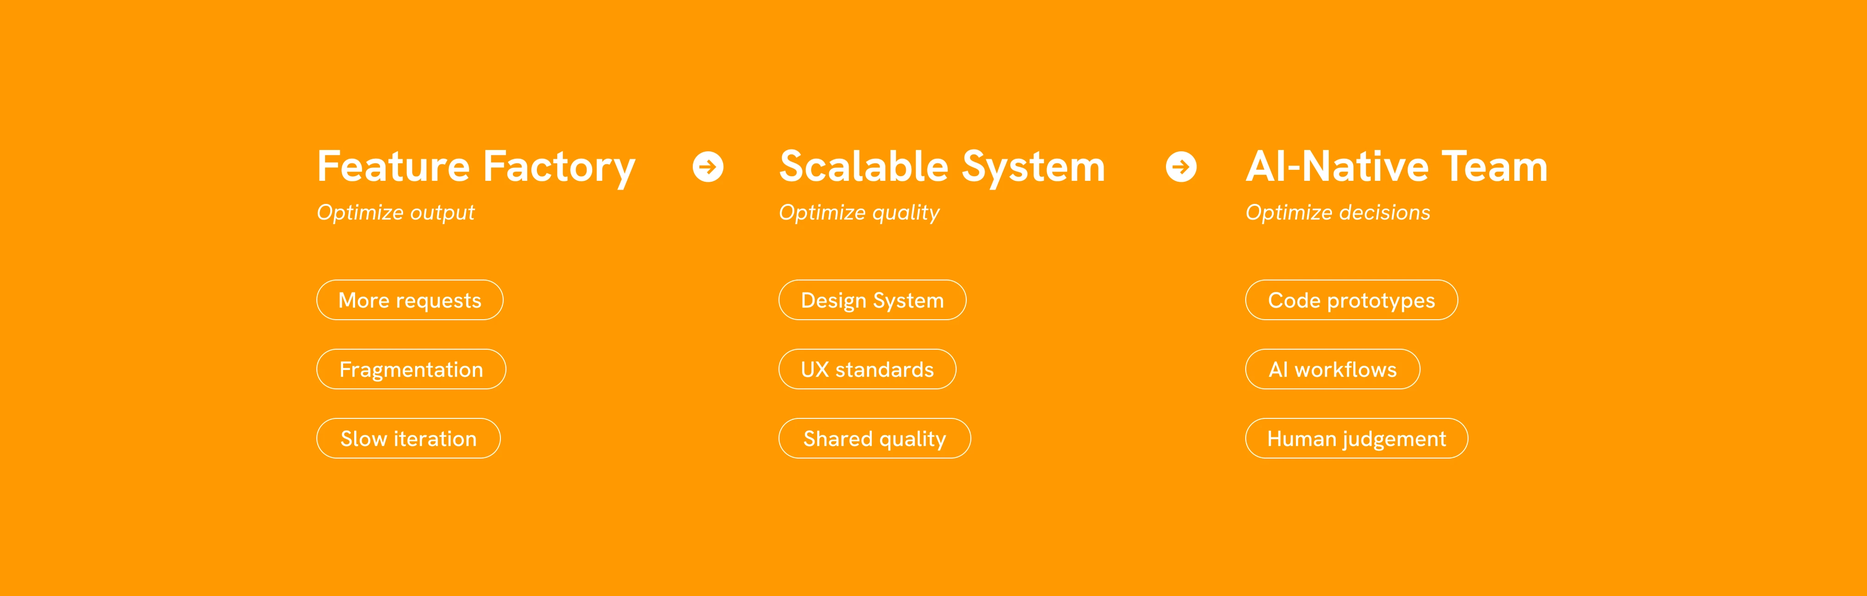
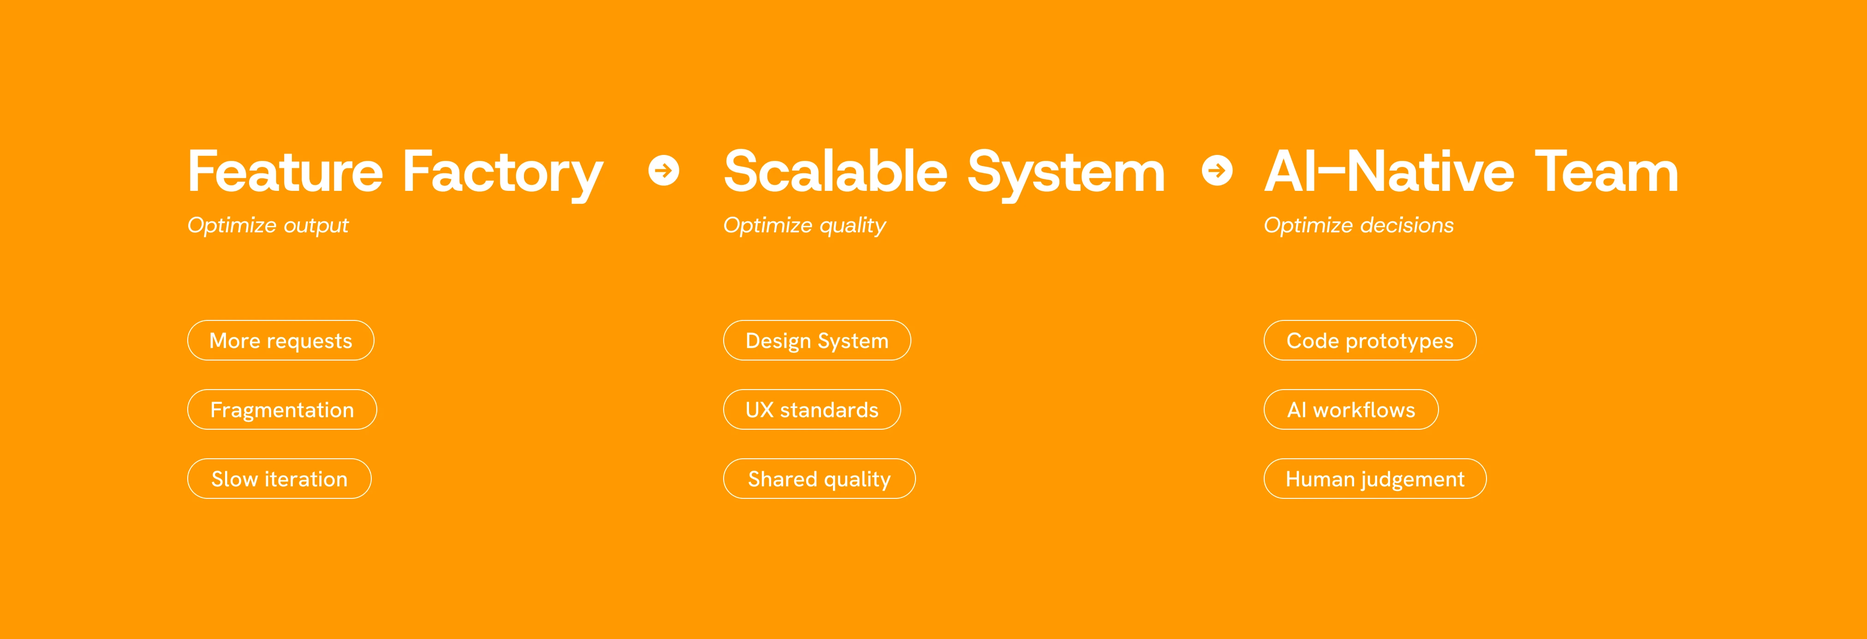
Update AI-Native eras diagram and Foureyes challenge images
Both new sources changed aspect ratio, so the declared width/height
attributes are updated to match and avoid layout shift on load.

The Foureyes challenge goes from 1368px to 2736px wide, since the
Foureyes images were still at 1x while the other case studies were
re-exported at 2x. Its alpha channel is dropped: the source carried a
2px semi-transparent top edge that would have bled the wrapper
background through as a hairline.

diff --git a/case-studies/foureyes/index.html b/case-studies/foureyes/index.html
@@ -36,7 +36,7 @@
   </div>
 </div>
 <div class="page" id="content">
-<div class="company-wordmark"><img src="/assets/img/logos/foureyes.svg" alt="Foureyes logo" width="60" height="40"></div><h1 class="cs-headline"><span data-en="Turning Behavioral Data into Trusted Sales Intelligence" data-es="Convirtiendo Datos de Comportamiento en Inteligencia de Ventas Confiable">Turning Behavioral Data into Trusted Sales Intelligence</span></h1><div class="role-meta"><div><b><span data-en="ROLE" data-es="PUESTO">ROLE</span></b> <span data-en="HEAD OF PRODUCT & DESIGN" data-es="DIRECTOR DE PRODUCTO Y DISEÑO">HEAD OF PRODUCT & DESIGN</span></div><div><b><span data-en="YEARS" data-es="AÑOS">YEARS</span></b> <span data-en="2015–2019" data-es="2015–2019">2015–2019</span></div></div><div class="hero-img hero-img-primary"><img src="/assets/img/foureyes/hero.webp" alt="Foureyes lead inbox" width="1400" height="898" loading="eager"></div><p class="cs-lede"><span data-en="Joining as the founding design and product leader before product-market fit, I helped transform an early B2B SaaS product into a scalable platform that fueled 200% YoY customer growth." data-es="Como líder fundador de diseño y producto antes de alcanzar ajuste producto-mercado, ayudé a transformar un producto SaaS B2B incipiente en una plataforma escalable que impulsó un crecimiento del 200% anual.">Joining as the founding design and product leader before product-market fit, I helped transform an early B2B SaaS product into a scalable platform that fueled 200% YoY customer growth.</span></p><div class="cs-section"><div class="cs-section-label"><span data-en="The challenge" data-es="El desafío">The challenge</span></div><p><span data-en="Foureyes had developed a breakthrough capability: connecting anonymous online shopping behavior to dealership CRM records, allowing sales teams to identify which prospects were actively shopping inventory before and after they visited their showroom. The challenge wasn’t simply building software, it was helping an industry built on instinct trust an entirely new way of working." data-es="Foureyes había desarrollado una capacidad revolucionaria: conectar el comportamiento de compra anónimo en línea con los registros de CRM de las agencias, permitiendo a los equipos de ventas identificar qué prospectos estaban comprando activamente en el inventario antes y después de visitar el showroom. El reto no era simplemente construir software, era ayudar a una industria basada en el instinto a confiar en una forma completamente nueva de trabajar.">Foureyes had developed a breakthrough capability: connecting anonymous online shopping behavior to dealership CRM records, allowing sales teams to identify which prospects were actively shopping inventory before and after they visited their showroom. The challenge wasn’t simply building software, it was helping an industry built on instinct trust an entirely new way of working.</span></p></div><div class="hero-img"><img src="/assets/img/foureyes/challenge-flow.webp" alt="Anonymous website visitor to recommended follow-up flow" width="1368" height="744" loading="lazy"></div><div class="cs-section"><div class="cs-section-label"><span data-en="My role as a leader" data-es="Mi rol como líder">My role as a leader</span></div><p><span data-en="Reporting directly to the CEO, I led product strategy, discovery, research, and design from the ground up. Through hundreds of customer interviews and dealership visits, I uncovered the insights that shaped the product roadmap, validated new opportunities, and established a customer-centered product organization. As the company grew, I built a multidisciplinary team of 18 across product, design, and research while partnering closely with engineering, sales, and executive leadership to accelerate learning and drive adoption." data-es="Reportando directamente al CEO, lideré la estrategia de producto, el descubrimiento, la investigación y el diseño desde cero. A través de cientos de entrevistas con clientes y visitas a agencias, descubrí los hallazgos que dieron forma al roadmap de producto, validé nuevas oportunidades y establecí una organización de producto centrada en el cliente. A medida que la empresa creció, construí un equipo multidisciplinario de 18 personas entre producto, diseño e investigación, colaborando de cerca con ingeniería, ventas y liderazgo ejecutivo para acelerar el aprendizaje e impulsar la adopción.">Reporting directly to the CEO, I led product strategy, discovery, research, and design from the ground up. Through hundreds of customer interviews and dealership visits, I uncovered the insights that shaped the product roadmap, validated new opportunities, and established a customer-centered product organization. As the company grew, I built a multidisciplinary team of 18 across product, design, and research while partnering closely with engineering, sales, and executive leadership to accelerate learning and drive adoption.</span></p></div><div class="cs-section-label"><span data-en="Strategic initiatives" data-es="Iniciativas estratégicas">Strategic initiatives</span></div><div class="cs-section"><div class="cs-subhead"><span data-en="Defined Product Strategy Through Customer Discovery" data-es="Definí la estrategia de producto a través del descubrimiento de clientes">Defined Product Strategy Through Customer Discovery</span></div><p><span data-en="Established research, experimentation, and pilot practices that uncovered the highest-value customer problems and shaped the product roadmap. Research revealed two distinct user needs: experienced salespeople who wanted a clear signal and newer reps who needed more context to build confidence. I translated these insights into Sales Assistant, a workflow that helped teams prioritize opportunities, understand intent, and take action." data-es="Establecí prácticas de investigación, experimentación y pilotos que revelaron los problemas de mayor valor para los clientes y dieron forma al roadmap de producto. La investigación reveló dos necesidades distintas de usuario: vendedores experimentados que querían una señal clara, y representantes nuevos que necesitaban más contexto para generar confianza. Traduje estos hallazgos en Sales Assistant, un flujo de trabajo que ayudó a los equipos a priorizar oportunidades, entender la intención y tomar acción.">Established research, experimentation, and pilot practices that uncovered the highest-value customer problems and shaped the product roadmap. Research revealed two distinct user needs: experienced salespeople who wanted a clear signal and newer reps who needed more context to build confidence. I translated these insights into Sales Assistant, a workflow that helped teams prioritize opportunities, understand intent, and take action.</span></p></div><div class="hero-img" style="background:var(--cream);"><img src="/assets/img/foureyes/web-email.webp" alt="Foureyes web and email" width="1368" height="876" loading="lazy"></div><div class="cs-section"><div class="cs-subhead"><span data-en="Expanded the Platform Through Intelligent Recommendations" data-es="Expandí la plataforma a través de recomendaciones inteligentes">Expanded the Platform Through Intelligent Recommendations</span></div><p><span data-en="Recognized that behavioral intelligence was only valuable when it helped salespeople take action. I led the evolution from passive analytics into proactive recommendations, using behavioral signals to identify the highest-impact next steps and guide customers through the sales funnel." data-es="Reconocí que la inteligencia de comportamiento solo era valiosa cuando ayudaba a los vendedores a actuar. Lideré la evolución de un análisis pasivo hacia recomendaciones proactivas, usando señales de comportamiento para identificar los siguientes pasos de mayor impacto y guiar a los clientes a través del embudo de ventas.">Recognized that behavioral intelligence was only valuable when it helped salespeople take action. I led the evolution from passive analytics into proactive recommendations, using behavioral signals to identify the highest-impact next steps and guide customers through the sales funnel.</span></p></div><div class="cs-section"><p><span data-en="This work established my early principles for intelligent product design: making AI-driven recommendations transparent, explainable, and actionable so users could build confidence and stay in control." data-es="Este trabajo estableció mis principios tempranos para el diseño de producto inteligente: hacer que las recomendaciones basadas en IA fueran transparentes, explicables y accionables para que los usuarios pudieran generar confianza y mantener el control.">This work established my early principles for intelligent product design: making AI-driven recommendations transparent, explainable, and actionable so users could build confidence and stay in control.</span></p></div><div class="hero-img"><img src="/assets/img/foureyes/email.webp" alt="Foureyes email" width="1368" height="1456" loading="lazy"></div><div class="cs-section"><div class="cs-subhead"><span data-en="Built a Differentiated Brand Around Customer Advocacy" data-es="Construí una marca diferenciada en torno a la defensa del cliente">Built a Differentiated Brand Around Customer Advocacy</span></div><p><span data-en="Used customer insight to reposition Foureyes from a technology provider into an advocate for salespeople. The Data Fatigued persona created a shared language across product, marketing, and sales, helping the company stand apart in a crowded analytics market and directly informing products designed to empower sales teams." data-es="Usé los hallazgos de clientes para reposicionar a Foureyes de un proveedor de tecnología a un aliado de los vendedores. La persona El Fatigado de Datos creó un lenguaje compartido entre producto, marketing y ventas, ayudando a la empresa a diferenciarse en un mercado de analítica saturado e informando directamente productos diseñados para empoderar a los equipos de ventas.">Used customer insight to reposition Foureyes from a technology provider into an advocate for salespeople. The Data Fatigued persona created a shared language across product, marketing, and sales, helping the company stand apart in a crowded analytics market and directly informing products designed to empower sales teams.</span></p></div><div class="hero-img"><img src="/assets/img/foureyes/brand-collage.webp" alt="Foureyes brand collage" width="1368" height="760" loading="lazy"></div><div class="hero-img"><img src="/assets/img/foureyes/design-system.webp" alt="Foureyes design system" width="1368" height="776" loading="lazy"></div><div class="leadership-block"><div class="cs-section-label"><span data-en="Outcomes" data-es="Resultados">Outcomes</span></div><div class="stat-row" style="margin-top:0.75rem;"><div class="stat"><div class="stat-num">200%</div><div class="stat-label"><span data-en="YoY Customer Growth" data-es="de crecimiento anual de clientes">YoY Customer Growth</span></div></div><div class="stat"><div class="stat-num">70%</div><div class="stat-label"><span data-en="Increase in Platform Engagement" data-es="de aumento en engagement de la plataforma">Increase in Platform Engagement</span></div></div><div class="stat"><div class="stat-num">10%</div><div class="stat-label"><span data-en="Increase in Qualified-Lead Purchase Rate" data-es="de aumento en tasa de compra de leads calificados">Increase in Qualified-Lead Purchase Rate</span></div></div><div class="stat"><div class="stat-num"><5%</div><div class="stat-label"><span data-en="Annual Team Churn" data-es="de churn anual del equipo">Annual Team Churn</span></div></div><div class="stat"><div class="stat-num">2</div><div class="stat-label"><span data-en="Industry Product Innovation Awards" data-es="premios de innovación de producto de la industria">Industry Product Innovation Awards</span></div></div></div></div><a class="case-study-cta" style="margin-top:3.75rem;" href="/case-studies/ai-native-practice/"><span data-en="Next Case Study" data-es="Siguiente Caso de Estudio">Next Case Study</span> <svg viewBox="0 0 24 24" fill="none" stroke="currentColor" stroke-width="2.2" stroke-linecap="round" stroke-linejoin="round" aria-hidden="true"><line x1="4" y1="12" x2="20" y2="12"/><polyline points="13 5 20 12 13 19"/></svg></a>
+<div class="company-wordmark"><img src="/assets/img/logos/foureyes.svg" alt="Foureyes logo" width="60" height="40"></div><h1 class="cs-headline"><span data-en="Turning Behavioral Data into Trusted Sales Intelligence" data-es="Convirtiendo Datos de Comportamiento en Inteligencia de Ventas Confiable">Turning Behavioral Data into Trusted Sales Intelligence</span></h1><div class="role-meta"><div><b><span data-en="ROLE" data-es="PUESTO">ROLE</span></b> <span data-en="HEAD OF PRODUCT & DESIGN" data-es="DIRECTOR DE PRODUCTO Y DISEÑO">HEAD OF PRODUCT & DESIGN</span></div><div><b><span data-en="YEARS" data-es="AÑOS">YEARS</span></b> <span data-en="2015–2019" data-es="2015–2019">2015–2019</span></div></div><div class="hero-img hero-img-primary"><img src="/assets/img/foureyes/hero.webp" alt="Foureyes lead inbox" width="1400" height="898" loading="eager"></div><p class="cs-lede"><span data-en="Joining as the founding design and product leader before product-market fit, I helped transform an early B2B SaaS product into a scalable platform that fueled 200% YoY customer growth." data-es="Como líder fundador de diseño y producto antes de alcanzar ajuste producto-mercado, ayudé a transformar un producto SaaS B2B incipiente en una plataforma escalable que impulsó un crecimiento del 200% anual.">Joining as the founding design and product leader before product-market fit, I helped transform an early B2B SaaS product into a scalable platform that fueled 200% YoY customer growth.</span></p><div class="cs-section"><div class="cs-section-label"><span data-en="The challenge" data-es="El desafío">The challenge</span></div><p><span data-en="Foureyes had developed a breakthrough capability: connecting anonymous online shopping behavior to dealership CRM records, allowing sales teams to identify which prospects were actively shopping inventory before and after they visited their showroom. The challenge wasn’t simply building software, it was helping an industry built on instinct trust an entirely new way of working." data-es="Foureyes había desarrollado una capacidad revolucionaria: conectar el comportamiento de compra anónimo en línea con los registros de CRM de las agencias, permitiendo a los equipos de ventas identificar qué prospectos estaban comprando activamente en el inventario antes y después de visitar el showroom. El reto no era simplemente construir software, era ayudar a una industria basada en el instinto a confiar en una forma completamente nueva de trabajar.">Foureyes had developed a breakthrough capability: connecting anonymous online shopping behavior to dealership CRM records, allowing sales teams to identify which prospects were actively shopping inventory before and after they visited their showroom. The challenge wasn’t simply building software, it was helping an industry built on instinct trust an entirely new way of working.</span></p></div><div class="hero-img"><img src="/assets/img/foureyes/challenge-flow.webp" alt="Anonymous website visitor to recommended follow-up flow" width="1368" height="718" loading="lazy"></div><div class="cs-section"><div class="cs-section-label"><span data-en="My role as a leader" data-es="Mi rol como líder">My role as a leader</span></div><p><span data-en="Reporting directly to the CEO, I led product strategy, discovery, research, and design from the ground up. Through hundreds of customer interviews and dealership visits, I uncovered the insights that shaped the product roadmap, validated new opportunities, and established a customer-centered product organization. As the company grew, I built a multidisciplinary team of 18 across product, design, and research while partnering closely with engineering, sales, and executive leadership to accelerate learning and drive adoption." data-es="Reportando directamente al CEO, lideré la estrategia de producto, el descubrimiento, la investigación y el diseño desde cero. A través de cientos de entrevistas con clientes y visitas a agencias, descubrí los hallazgos que dieron forma al roadmap de producto, validé nuevas oportunidades y establecí una organización de producto centrada en el cliente. A medida que la empresa creció, construí un equipo multidisciplinario de 18 personas entre producto, diseño e investigación, colaborando de cerca con ingeniería, ventas y liderazgo ejecutivo para acelerar el aprendizaje e impulsar la adopción.">Reporting directly to the CEO, I led product strategy, discovery, research, and design from the ground up. Through hundreds of customer interviews and dealership visits, I uncovered the insights that shaped the product roadmap, validated new opportunities, and established a customer-centered product organization. As the company grew, I built a multidisciplinary team of 18 across product, design, and research while partnering closely with engineering, sales, and executive leadership to accelerate learning and drive adoption.</span></p></div><div class="cs-section-label"><span data-en="Strategic initiatives" data-es="Iniciativas estratégicas">Strategic initiatives</span></div><div class="cs-section"><div class="cs-subhead"><span data-en="Defined Product Strategy Through Customer Discovery" data-es="Definí la estrategia de producto a través del descubrimiento de clientes">Defined Product Strategy Through Customer Discovery</span></div><p><span data-en="Established research, experimentation, and pilot practices that uncovered the highest-value customer problems and shaped the product roadmap. Research revealed two distinct user needs: experienced salespeople who wanted a clear signal and newer reps who needed more context to build confidence. I translated these insights into Sales Assistant, a workflow that helped teams prioritize opportunities, understand intent, and take action." data-es="Establecí prácticas de investigación, experimentación y pilotos que revelaron los problemas de mayor valor para los clientes y dieron forma al roadmap de producto. La investigación reveló dos necesidades distintas de usuario: vendedores experimentados que querían una señal clara, y representantes nuevos que necesitaban más contexto para generar confianza. Traduje estos hallazgos en Sales Assistant, un flujo de trabajo que ayudó a los equipos a priorizar oportunidades, entender la intención y tomar acción.">Established research, experimentation, and pilot practices that uncovered the highest-value customer problems and shaped the product roadmap. Research revealed two distinct user needs: experienced salespeople who wanted a clear signal and newer reps who needed more context to build confidence. I translated these insights into Sales Assistant, a workflow that helped teams prioritize opportunities, understand intent, and take action.</span></p></div><div class="hero-img" style="background:var(--cream);"><img src="/assets/img/foureyes/web-email.webp" alt="Foureyes web and email" width="1368" height="876" loading="lazy"></div><div class="cs-section"><div class="cs-subhead"><span data-en="Expanded the Platform Through Intelligent Recommendations" data-es="Expandí la plataforma a través de recomendaciones inteligentes">Expanded the Platform Through Intelligent Recommendations</span></div><p><span data-en="Recognized that behavioral intelligence was only valuable when it helped salespeople take action. I led the evolution from passive analytics into proactive recommendations, using behavioral signals to identify the highest-impact next steps and guide customers through the sales funnel." data-es="Reconocí que la inteligencia de comportamiento solo era valiosa cuando ayudaba a los vendedores a actuar. Lideré la evolución de un análisis pasivo hacia recomendaciones proactivas, usando señales de comportamiento para identificar los siguientes pasos de mayor impacto y guiar a los clientes a través del embudo de ventas.">Recognized that behavioral intelligence was only valuable when it helped salespeople take action. I led the evolution from passive analytics into proactive recommendations, using behavioral signals to identify the highest-impact next steps and guide customers through the sales funnel.</span></p></div><div class="cs-section"><p><span data-en="This work established my early principles for intelligent product design: making AI-driven recommendations transparent, explainable, and actionable so users could build confidence and stay in control." data-es="Este trabajo estableció mis principios tempranos para el diseño de producto inteligente: hacer que las recomendaciones basadas en IA fueran transparentes, explicables y accionables para que los usuarios pudieran generar confianza y mantener el control.">This work established my early principles for intelligent product design: making AI-driven recommendations transparent, explainable, and actionable so users could build confidence and stay in control.</span></p></div><div class="hero-img"><img src="/assets/img/foureyes/email.webp" alt="Foureyes email" width="1368" height="1456" loading="lazy"></div><div class="cs-section"><div class="cs-subhead"><span data-en="Built a Differentiated Brand Around Customer Advocacy" data-es="Construí una marca diferenciada en torno a la defensa del cliente">Built a Differentiated Brand Around Customer Advocacy</span></div><p><span data-en="Used customer insight to reposition Foureyes from a technology provider into an advocate for salespeople. The Data Fatigued persona created a shared language across product, marketing, and sales, helping the company stand apart in a crowded analytics market and directly informing products designed to empower sales teams." data-es="Usé los hallazgos de clientes para reposicionar a Foureyes de un proveedor de tecnología a un aliado de los vendedores. La persona El Fatigado de Datos creó un lenguaje compartido entre producto, marketing y ventas, ayudando a la empresa a diferenciarse en un mercado de analítica saturado e informando directamente productos diseñados para empoderar a los equipos de ventas.">Used customer insight to reposition Foureyes from a technology provider into an advocate for salespeople. The Data Fatigued persona created a shared language across product, marketing, and sales, helping the company stand apart in a crowded analytics market and directly informing products designed to empower sales teams.</span></p></div><div class="hero-img"><img src="/assets/img/foureyes/brand-collage.webp" alt="Foureyes brand collage" width="1368" height="760" loading="lazy"></div><div class="hero-img"><img src="/assets/img/foureyes/design-system.webp" alt="Foureyes design system" width="1368" height="776" loading="lazy"></div><div class="leadership-block"><div class="cs-section-label"><span data-en="Outcomes" data-es="Resultados">Outcomes</span></div><div class="stat-row" style="margin-top:0.75rem;"><div class="stat"><div class="stat-num">200%</div><div class="stat-label"><span data-en="YoY Customer Growth" data-es="de crecimiento anual de clientes">YoY Customer Growth</span></div></div><div class="stat"><div class="stat-num">70%</div><div class="stat-label"><span data-en="Increase in Platform Engagement" data-es="de aumento en engagement de la plataforma">Increase in Platform Engagement</span></div></div><div class="stat"><div class="stat-num">10%</div><div class="stat-label"><span data-en="Increase in Qualified-Lead Purchase Rate" data-es="de aumento en tasa de compra de leads calificados">Increase in Qualified-Lead Purchase Rate</span></div></div><div class="stat"><div class="stat-num"><5%</div><div class="stat-label"><span data-en="Annual Team Churn" data-es="de churn anual del equipo">Annual Team Churn</span></div></div><div class="stat"><div class="stat-num">2</div><div class="stat-label"><span data-en="Industry Product Innovation Awards" data-es="premios de innovación de producto de la industria">Industry Product Innovation Awards</span></div></div></div></div><a class="case-study-cta" style="margin-top:3.75rem;" href="/case-studies/ai-native-practice/"><span data-en="Next Case Study" data-es="Siguiente Caso de Estudio">Next Case Study</span> <svg viewBox="0 0 24 24" fill="none" stroke="currentColor" stroke-width="2.2" stroke-linecap="round" stroke-linejoin="round" aria-hidden="true"><line x1="4" y1="12" x2="20" y2="12"/><polyline points="13 5 20 12 13 19"/></svg></a>
 </div>
 <div id="siteFooter">
   <div class="footer-block">

diff --git a/case-studies/ai-native-practice/index.html b/case-studies/ai-native-practice/index.html
@@ -46,7 +46,7 @@
 <p class="cs-lede"><span data-en="I rebuilt the design operating model to increase leverage, using AI to accelerate prototyping, automate research workflows, and raise the quality bar while shipping faster." data-es="Reconstruí el modelo operativo de diseño para aumentar el apalancamiento, usando IA para acelerar el prototipado, automatizar los flujos de investigación y elevar el estándar de calidad mientras entregábamos más rápido.">I rebuilt the design operating model to increase leverage, using AI to accelerate prototyping, automate research workflows, and raise the quality bar while shipping faster.</span></p>
 
 <div class="cs-section"><div class="cs-section-label"><span data-en="The challenge" data-es="El desafío">The challenge</span></div><p><span data-en="Stori’s design team supported a multi-product financial platform serving millions of customers across LATAM, and the roadmap was growing faster than the team could. Rather than hire I chose to rebuild the practice itself so each IC operated with more leverage, without letting craft slide. The risk was real, AI makes it cheap to ship mediocre work quickly. The team had to raise both quality and speed, or it would fail at both." data-es="El equipo de diseño de Stori apoyaba una plataforma financiera multiproducto que atendía a millones de clientes en toda LATAM, y el roadmap crecía más rápido de lo que el equipo podía abarcar. En lugar de contratar, elegí reconstruir la práctica misma para que cada IC operara con más apalancamiento, sin dejar que el oficio se deteriorara. El riesgo era real: la IA hace que sea barato lanzar trabajo mediocre rápidamente. El equipo tenía que elevar tanto la calidad como la velocidad, o fallaría en ambas.">Stori’s design team supported a multi-product financial platform serving millions of customers across LATAM, and the roadmap was growing faster than the team could. Rather than hire I chose to rebuild the practice itself so each IC operated with more leverage, without letting craft slide. The risk was real, AI makes it cheap to ship mediocre work quickly. The team had to raise both quality and speed, or it would fail at both.</span></p></div>
-<div class="hero-img"><img src="/assets/img/ai-native-practice/eras-diagram.webp" alt="Progression from feature factory to scalable system to AI-native team" width="4048" height="1292" loading="lazy"></div>
+<div class="hero-img"><img src="/assets/img/ai-native-practice/eras-diagram.webp" alt="Progression from feature factory to scalable system to AI-native team" width="4048" height="1386" loading="lazy"></div>
 
 <div class="cs-section"><div class="cs-section-label"><span data-en="My role" data-es="Mi rol">My role</span></div><p><span data-en="I led the transformation personally, ahead of any mandate, by showing not telling. I retooled my own workflow first, brought working examples back to the team, and shared early wins and learnings. Adoption was uneven, so I set the expectation of exploration and learning over output at first — with clear goals: eliminate low-value work, increase iteration speed, and raise ownership of shipped UX quality. The practice stuck the same way any craft standard sticks: training, shared playbooks, and the same quality gates every shipped flow goes through." data-es="Lideré la transformación personalmente, antes de cualquier mandato, mostrando en lugar de solo indicar. Primero rediseñé mi propio flujo de trabajo, llevé ejemplos funcionales de vuelta al equipo, y compartí los primeros logros y aprendizajes. La adopción fue desigual, así que al principio establecí la expectativa de exploración y aprendizaje por encima de la producción, con metas claras: eliminar trabajo de bajo valor, aumentar la velocidad de iteración, y elevar la propiedad sobre la calidad de UX entregada. La práctica se consolidó de la misma forma en que se consolida cualquier estándar de oficio: capacitación, manuales compartidos, y los mismos controles de calidad por los que pasa cada flujo entregado.">I led the transformation personally, ahead of any mandate, by showing not telling. I retooled my own workflow first, brought working examples back to the team, and shared early wins and learnings. Adoption was uneven, so I set the expectation of exploration and learning over output at first — with clear goals: eliminate low-value work, increase iteration speed, and raise ownership of shipped UX quality. The practice stuck the same way any craft standard sticks: training, shared playbooks, and the same quality gates every shipped flow goes through.</span></p></div>
 
